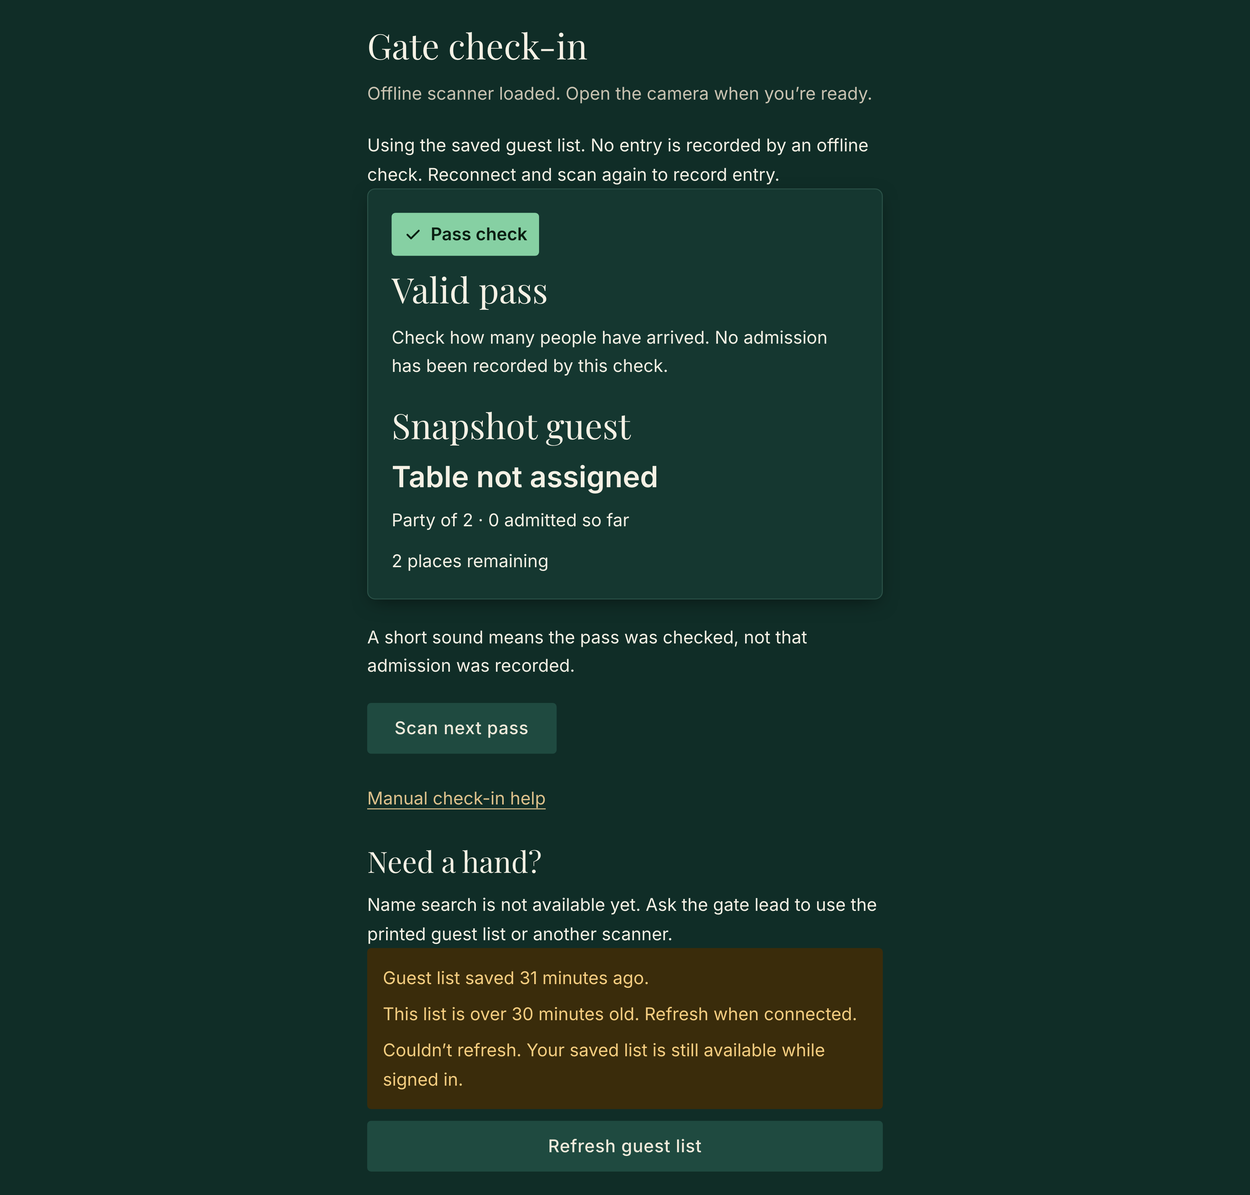
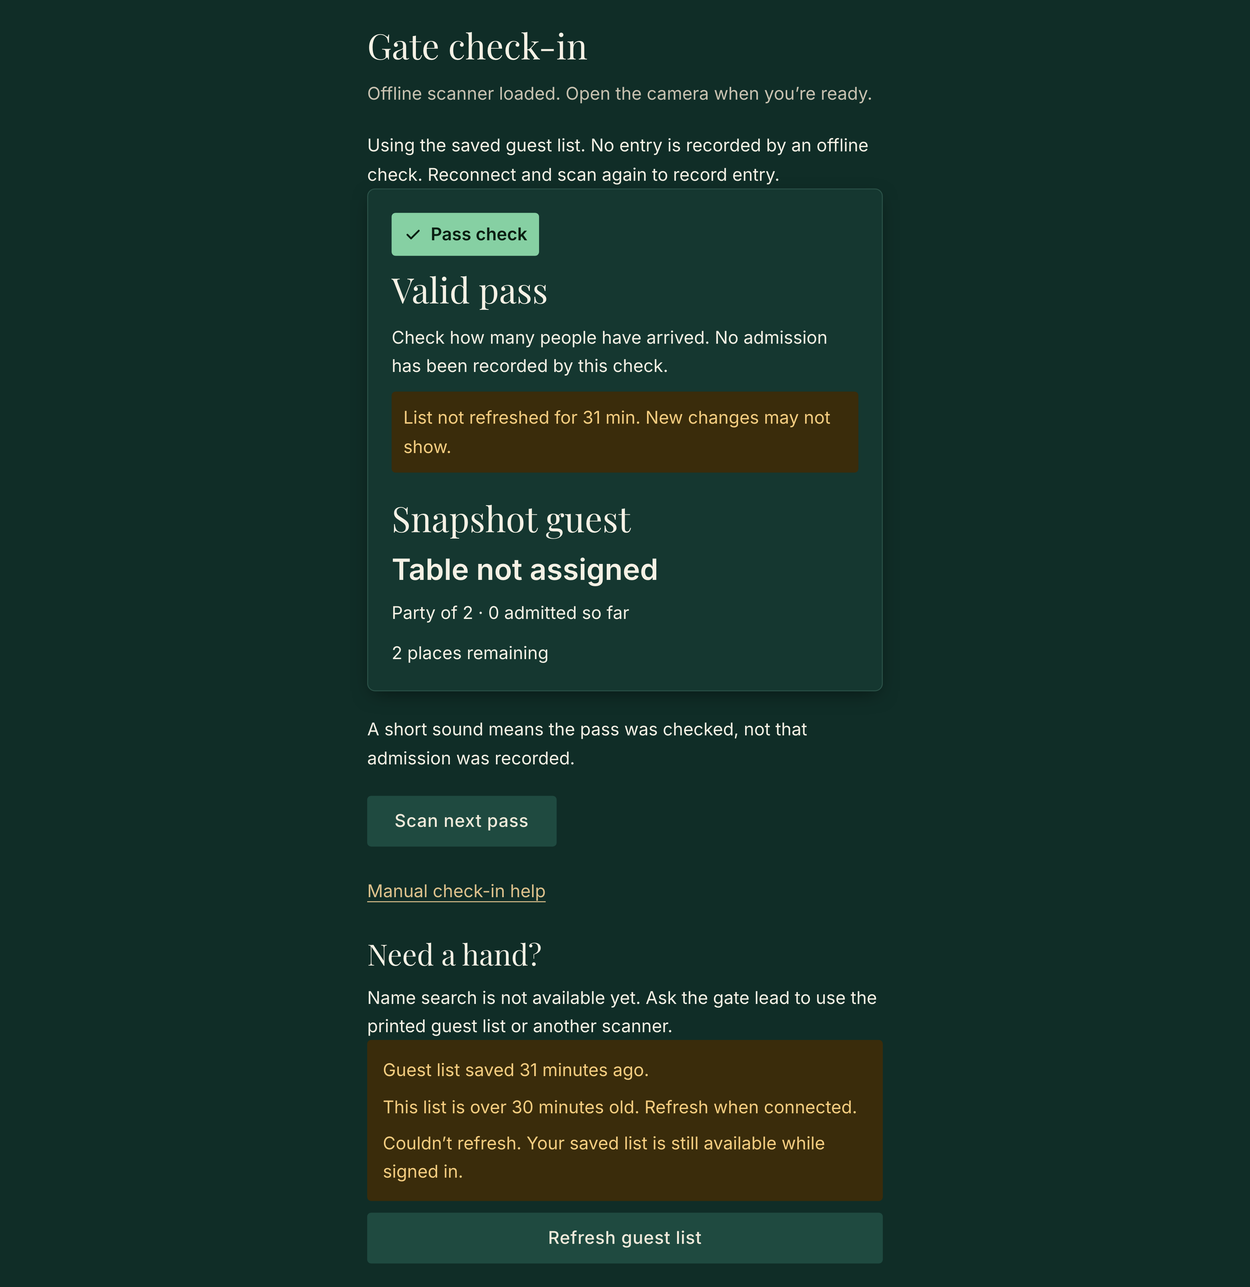
TICKET-065: verify stale results and signed offline worker decoding

Changed region(s): [[0.2812, 0.0311, 0.7188, 0.9648]]

diff --git a/scripts/browser-tests/scanner-shell-worker.spec.ts b/scripts/browser-tests/scanner-shell-worker.spec.ts
@@ -1,4 +1,5 @@
 import { createServer, type Server } from "node:http";
+import { generateKeyPairSync, randomUUID, sign } from "node:crypto";
 import { readFile, mkdtemp, rm } from "node:fs/promises";
 import { tmpdir } from "node:os";
 import { resolve, join } from "node:path";
@@ -11,6 +12,7 @@ import { generateScannerAssets, type ScannerAssetManifest } from "../scanner-ass
 import type { ScannerShellGrant } from "../../src/modules/checkin/browser/scanner-shell-store";
 import { themeToCssText } from "../../src/modules/theming/lib/css-vars";
 import { themeSchema } from "../../src/modules/theming/lib/schema";
+import { encodeGatePassPayload } from "../../src/modules/checkin/lib/gate-token";
 let themeCss: string;
 
 declare global {
@@ -29,6 +31,8 @@ let worker: string;
 let denied = false;
 let expiresAt = 0;
 const session = "a".repeat(64);
+const snapshotInvitation = randomUUID();
+const snapshotKeys = generateKeyPairSync("ed25519");
 function grant(): ScannerShellGrant {
   const html = `<!doctype html><html lang="en"><head><meta charset="utf-8"><meta name="viewport" content="width=device-width"><title>Gate scanner</title><link rel="stylesheet" href="${manifest.stylesheet}"><style>${themeCss}</style></head><body><div id="scanner-shell" data-expires-at="${expiresAt}" data-session="${session}" data-build="${manifest.build}"></div><script defer src="${manifest.script}"></script></body></html>`;
   return {
@@ -97,6 +101,39 @@ test.beforeAll(async () => {
         response.setHeader("Content-Type", "application/json");
         response.setHeader("X-Wedding-Scanner-Shell", "1");
         response.end(JSON.stringify(grant()));
+      } else if (path === "/api/checkin/guest-snapshot") {
+        response.setHeader("Content-Type", "application/json");
+        response.setHeader("X-Wedding-Guest-Snapshot", "1");
+        response.end(
+          JSON.stringify({
+            version: 1,
+            session,
+            generatedAt: Date.now(),
+            expiresAt,
+            keys: [
+              {
+                kid: "shell-fixture",
+                alg: "Ed25519",
+                spki: snapshotKeys.publicKey
+                  .export({ type: "spki", format: "der" })
+                  .toString("base64url"),
+              },
+            ],
+            invitations: [
+              {
+                invitationId: snapshotInvitation,
+                tokenVersion: 1,
+                status: "rsvp_yes",
+                attending: true,
+                partySize: 2,
+                admittedSoFar: 0,
+                name: "Synthetic offline household",
+                names: ["Synthetic offline guest"],
+                tableNumber: 9,
+              },
+            ],
+          }),
+        );
       } else if (manifest.assets.includes(path)) {
         response.setHeader(
           "Content-Type",
@@ -146,7 +183,9 @@ async function message(page: Page, type: string) {
           resolve(event.data);
         };
         if (!navigator.serviceWorker.controller) throw new Error("uncontrolled fixture");
-        navigator.serviceWorker.controller.postMessage({ type }, [channel.port2]);
+        navigator.serviceWorker.controller.postMessage({ type, session: "a".repeat(64) }, [
+          channel.port2,
+        ]);
       }),
     type,
   );
@@ -168,10 +207,19 @@ test("actual worker restores the complete scanner bundle offline and decodes QR 
 }) => {
   expiresAt = Date.now() + 12_000;
   await prepare(page);
+  expect(await message(page, "REFRESH_GUEST_SNAPSHOT")).toEqual({ state: "ready" });
   await context.setOffline(true);
   await page.reload();
   await expect(page.getByRole("button", { name: "Open camera" })).toBeVisible();
-  const qr = await QRCode.toDataURL("synthetic-offline-scanner-qr", { width: 512, margin: 4 });
+  const body = encodeGatePassPayload({
+    v: 1,
+    kid: "shell-fixture",
+    inv: snapshotInvitation,
+    ver: 1,
+    iat: 0,
+  });
+  const signed = `${body}.${sign(null, Buffer.from(body), snapshotKeys.privateKey).toString("base64url")}`;
+  const qr = await QRCode.toDataURL(`${origin}/p/${signed}`, { width: 512, margin: 4 });
   await page.evaluate(async (src) => {
     Object.defineProperty(window, "BarcodeDetector", { configurable: true, value: undefined });
     const canvas = document.createElement("canvas");
@@ -213,11 +261,15 @@ test("actual worker restores the complete scanner bundle offline and decodes QR 
     });
   }, qr);
   await page.getByRole("button", { name: "Open camera" }).click();
-  await expect(page.getByText("Unable to check this pass", { exact: true })).toBeVisible();
-  expect(await page.evaluate(() => window.scannerFixtureDecoded)).toEqual([
-    "synthetic-offline-scanner-qr",
-  ]);
-  await expect(page.getByText("Valid pass", { exact: true })).toHaveCount(0);
+  await expect(page.getByRole("heading", { name: "Valid pass", exact: true })).toBeVisible();
+  await expect(page.getByText("Synthetic offline household", { exact: true })).toBeVisible();
+  await expect(page.getByText("Party of 2 · 0 admitted so far", { exact: true })).toBeVisible();
+  await expect(page.getByText("Table 9", { exact: true })).toBeVisible();
+  await expect(page.getByRole("spinbutton")).toHaveCount(0);
+  await expect(page.getByText(/No entry is recorded by an offline check/)).toBeVisible();
+  // The signature/household proves the actual QR pixels reached local resolution.
+  // Offline checks must not route the QR to a live admission/read endpoint.
+  expect(await page.evaluate(() => window.scannerFixtureDecoded)).toEqual([]);
   // TICKET-060 stops capture after a read. Restart on blank frames to prove that
   // session expiry, rather than a completed read, shuts down an active camera.
   await page.evaluate(() => {

diff --git a/src/modules/checkin/components/admission-result.tsx b/src/modules/checkin/components/admission-result.tsx
@@ -62,6 +62,7 @@ export function AdmissionResult({
   onBusyChange,
   onComplete,
   allowAdmission = true,
+  readOnlyNotice,
 }: {
   result: ScanReadResult;
   qr: string | null;
@@ -69,6 +70,7 @@ export function AdmissionResult({
   onBusyChange: (busy: boolean) => void;
   onComplete?: () => void;
   allowAdmission?: boolean;
+  readOnlyNotice?: string;
 }) {
   const remaining =
     result.state === "valid" ? result.guest.partySize - result.guest.admittedSoFar : 0;
@@ -206,7 +208,11 @@ export function AdmissionResult({
   }
   if (result.state !== "valid" || !qr || (!allowAdmission && !response && !pending))
     return (
-      <ScanResultPanel state={result.state} guest={"guest" in result ? result.guest : undefined} />
+      <ScanResultPanel
+        state={result.state}
+        guest={"guest" in result ? result.guest : undefined}
+        notice={readOnlyNotice}
+      />
     );
   return (
     <Card>

diff --git a/src/modules/checkin/components/scan-result-panel.tsx b/src/modules/checkin/components/scan-result-panel.tsx
@@ -10,9 +10,11 @@ import {
 export function ScanResultPanel({
   state,
   guest,
+  notice,
 }: {
   state: ScanReadState;
   guest?: ScanGuestDisplay;
+  notice?: string;
 }) {
   const result = scanResultPresentation(state);
   const visibleGuest = state === "valid" || state === "already_used" ? guest : undefined;
@@ -25,6 +27,11 @@ export function ScanResultPanel({
           </StatusBadge>
           <h2 className="font-display text-4xl leading-tight wrap-anywhere">{result.title}</h2>
           <p>{result.description}</p>
+          {notice && (
+            <p className="rounded-md bg-warning-subtle p-3 text-warning-subtle-foreground">
+              {notice}
+            </p>
+          )}
         </div>
         {visibleGuest && (
           <div className="flex flex-col gap-3">

diff --git a/src/modules/checkin/components/scanner.tsx b/src/modules/checkin/components/scanner.tsx
@@ -36,11 +36,13 @@ export function Scanner({
   submitAdmission,
   allowAdmission = true,
   onAdmissionRecorded,
+  readOnlyNotice,
 }: {
   resolveRead?: ScanResolver;
   submitAdmission?: AdmissionSubmitter;
   allowAdmission?: boolean;
   onAdmissionRecorded?: () => void;
+  readOnlyNotice?: string;
 }) {
   const video = useRef<HTMLVideoElement>(null);
   const resultRegion = useRef<HTMLDivElement>(null);
@@ -283,6 +285,7 @@ export function Scanner({
             qr={checkedQr}
             submit={submitAdmission}
             allowAdmission={allowAdmission}
+            readOnlyNotice={readOnlyNotice}
             onBusyChange={setAdmissionBusy}
             onComplete={() => {
               setAdmissionCompleted(true);

diff --git a/src/modules/checkin/__tests__/admission-result.test.tsx b/src/modules/checkin/__tests__/admission-result.test.tsx
@@ -15,9 +15,13 @@ it("keeps cached valid checks read-only without an admission form or receipt", (
       submit={submit}
       onBusyChange={() => {}}
       allowAdmission={false}
+      readOnlyNotice="List not refreshed for 31 min. New changes may not show."
     />,
   );
   expect(screen.getByRole("heading", { name: "Valid pass" })).toBeVisible();
+  expect(
+    screen.getByText("List not refreshed for 31 min. New changes may not show."),
+  ).toBeVisible();
   expect(screen.queryByLabelText("How many are here?")).toBeNull();
   expect(screen.queryByRole("button", { name: /Admit/ })).toBeNull();
   expect(screen.getByText(/No admission has been recorded by this check/)).toBeVisible();

diff --git a/src/modules/checkin/components/guest-snapshot-scanner.tsx b/src/modules/checkin/components/guest-snapshot-scanner.tsx
@@ -86,6 +86,9 @@ export function GuestSnapshotScanner({
         {null}
       </ScannerSession>
     );
+  const age = freshness.summary
+    ? Math.max(0, Math.floor((freshness.now - freshness.summary.generatedAt) / 60_000))
+    : 0;
   return (
     <>
       {cached && (
@@ -98,6 +101,11 @@ export function GuestSnapshotScanner({
         key={session}
         resolveRead={resolveRead}
         allowAdmission={!cached}
+        readOnlyNotice={
+          cached && age >= 30
+            ? `List not refreshed for ${age} min. New changes may not show.`
+            : undefined
+        }
         onAdmissionRecorded={() => {
           void changed();
         }}

diff --git a/e2e/guest-snapshot.spec.ts b/e2e/guest-snapshot.spec.ts
@@ -138,6 +138,9 @@ test("authenticated private snapshot supports offline reads and erases on sign-o
       page.getByText("This list is over 30 minutes old. Refresh when connected."),
     ).toBeVisible();
     await expect(page.getByRole("heading", { name: "Valid pass", exact: true })).toBeVisible();
+    await expect(
+      page.getByText("List not refreshed for 31 min. New changes may not show."),
+    ).toBeVisible();
     await capture("stale");
     await page.clock.setFixedTime(new Date());
     const device = randomUUID();

diff --git a/docs/pwa.md b/docs/pwa.md
@@ -23,7 +23,7 @@ TICKET-104 generates themed192/512 any/maskable PNGs, an180px Apple touch icon a
 - **Offline fallback:** a same-origin page navigation goes to the network as normal. Only when the network fails does the worker answer with the precached offline page, at the URL the guest tried, with a "Try again" button that reloads it. The visited invitation document is never stored; the explicit minimal own-pass and scanner exceptions are described below. `fetch()` calls are not navigations, so private routes such as `/admin` still fail offline.
 - No automatic `skipWaiting`: a new version waits until tabs using the old one close. TICKET-111 adds the update prompt.
 - Generic public-asset caching is best-effort: a hit is served from cache, otherwise the network response is returned immediately and a copy is stored in the background (`event.waitUntil`). Only complete `200` same-origin responses are stored (never `206` partial range responses), and any Cache Storage error (quota, private mode, eviction) falls back to the network instead of failing the request.
-- Caches are named `wedding-<kind>-v<SW_CACHE_VERSION>`. On activate, only obsolete public `wedding-` caches are deleted; the current explicitly authorized own-pass and scanner-build caches are retained. Scanner activation invalidates an incompatible saved scanner grant before deleting its old assets; guest snapshots and unsynced queues are never touched. Bump `SW_CACHE_VERSION` when cached content or layout changes.
+- Caches are named `wedding-<kind>-v<SW_CACHE_VERSION>`. On activate, only obsolete public `wedding-` caches are deleted; the current explicitly authorized own-pass and scanner-build caches are retained. Scanner activation invalidates an incompatible saved scanner grant before deleting its old assets; private guest snapshots are erased with incompatible scanner authority, while unsynced queues are never touched. Bump `SW_CACHE_VERSION` when cached content or layout changes.
 
 ## Strategy table
 
@@ -46,11 +46,11 @@ The generic "Network-only" policy leaves requests to the browser without storing
 
 ## Planned extensions (not implemented here)
 
-| Content                                    | Ticket             |
-| ------------------------------------------ | ------------------ |
-| Authorized guest snapshots and scan outbox | TICKET-065/066/180 |
-| Update-available prompt                    | TICKET-111         |
-| Expiry, logout cleanup, storage eviction   | TICKET-184         |
+| Content                                  | Ticket         |
+| ---------------------------------------- | -------------- |
+| Admission outbox and unsynced retention  | TICKET-066/180 |
+| Update-available prompt                  | TICKET-111     |
+| Expiry, logout cleanup, storage eviction | TICKET-184     |
 
 ## Authorized own-pass copies (TICKET-107)
 
@@ -86,9 +86,8 @@ assets live in `wedding-scanner-assets-v1-<build>`; the private grant lives sepa
 in IndexedDB `wedding-scanner-shell-v1`. Preparation validates every asset and reads
 all of them back before publishing readiness. A missing asset, invalid/expired grant
 or unavailable storage gives the generic offline page. RSC/prefetch and check-in API
-requests do not receive private HTML. The default read-only guest check still needs
-a network connection; this shell does not implement TICKET-065's guest snapshots or
-TICKET-066/180's admission outbox.
+requests do not receive private HTML. TICKET-065 adds the separately authorized private guest snapshot described below.
+The shell does not implement TICKET-066/180's admission outbox.
 
 The expiry is the earliest signed-cookie, current event and PIN deadline. Initial
 camera mounting reconciles durable session/build identity and clamps to the earlier
@@ -117,3 +116,15 @@ browser restarts with persistent profiles, injected storage failure/recovery, an
 authenticated Next production journey. Physical installed iOS/Android scanner operation
 remains mandatory in TICKET-114; this does not certify remote revocation while a device
 is offline or physical camera conditions. See `docs/reviews/TICKET-108/` for evidence.
+
+## Private scanner guest snapshots (TICKET-065)
+
+After sign-in, the worker fetches `/api/checkin/guest-snapshot` with the current staff cookie. The endpoint validates gate access before and after a repeatable-read projection and returns a bounded, no-store document. Only names, invitation ID/version/status, RSVP allowance, admitted count, table and public verification keys are included. Contacts, dietary/RSVP notes, credentials and signed bearer links are excluded.
+
+The private `wedding-scanner-guests-v1` IndexedDB store is separate from public assets and admission queues. Every read/refresh/erase shares the scanner publication Web Lock and reconciles current shell identity, readiness and deadline. Generation checks defeat late writes. Sign-out, expiry, session replacement and newly shortened authority erase the private copy. Failed erasure locks offline access and removes scanner readiness across builds; all parallel erasures settle before the lock is released. Older workers' generic removal replies require locked direct cleanup.
+
+The list refreshes every five minutes, on resume/reconnect and after known authoritative guest changes or admission receipts. Known changes invalidate only the matching private copy before refresh; a failed refresh cannot return a copy already contradicted by the server. Unknown remote changes remain unknown offline. At thirty minutes the UI shows an amber age warning and a stale-result notice; scanning continues until the trusted session deadline. There is no invented maximum snapshot age.
+
+Offline signed QR checks show valid, used, revoked, replaced or unknown results without recording entry. Reconnection never turns an already displayed cached result into an admission form. Existing uncertain live admission retries preserve their exact intent. A new online scan is required to authorize a new admission; TICKET-066 owns offline queued admission.
+
+Evidence: `docs/reviews/TICKET-065/`, the actual authenticated snapshot browser runner and the generated-worker Chromium/WebKit suite. Automated tests include full browser restart after storage failure and physical private-data erasure; physical installed-device certification remains in TICKET-114/TICKET-163/TICKET-201.

diff --git a/docs/plans/TICKET-065-pr.md b/docs/plans/TICKET-065-pr.md
@@ -23,13 +23,15 @@ The policy follows TICKET-169: five-minute refresh, immediate refresh after know
 # Verification
 
 - Production build passed.
-- Authenticated snapshot journey: **2/2 passed**, mobile and desktop, 41.4 seconds. All six states were checked in four themes at 375/768/1280; axe reported zero violations, controls met 44px and pages had no horizontal overflow.
+- Authenticated snapshot journey: **2/2 passed**, mobile and desktop, 42.2 seconds. All six states were checked in four themes at 375/768/1280; axe reported zero violations, controls met 44px and pages had no horizontal overflow.
 - Existing online admission integration: **2/2 passed**, 31.3 seconds, preserving actual partial admission, immutable uncertain retry, duplicate receipt and concurrent refusal assertions.
 - Existing authenticated offline shell integration: **2/2 passed**, 37.4 seconds, including exact zero initial CLS, keyboard refresh/sign-out and offline denial after logout.
 - Exact generated-worker/real IndexedDB suite: **24/24 passed**, Chromium and WebKit, 15.0 seconds. Includes old-worker acknowledgement fallback, concurrent refresh/logout, shortened deadlines, missing authority cleanup, failed private erasure and full browser restart offline.
 - Actual isolated PostgreSQL projection: **1/1 passed**. Private fields excluded; large named households retain all names with a bounded display label; revoked households preserve historical admitted counts. The transaction rolls back its fixtures.
 - Focused admission/worker/wrapper tests: **38 passed**, including uncertain intent preservation when switching to read-only mode. Hook tests include the reproduced initial preparation-notification race. Pure parser/response/resolver targeted coverage reached 100% for the three new pure modules.
-- Final quick gate passed lint, types and 114 related tests (one conditional database skip, separately exercised above). Full coverage and exact-head CI remain pending.
+- Full combined unit/coverage gate: **1,873 passed / 194 conditional skips**, 108.25 seconds; critical lines98.59%, branches98.89%, every per-file threshold passed. Final combined quick passed lint, types and28 related tests; the earlier broader quick passed114. Exact-head CI remains pending.
+
+The existing shell/decoder fixture also passes **46/46** Chromium/WebKit cases (43.1 seconds). The first checkpoint CI exposed its obsolete assertion that offline QR checks make a live POST. The fixture now uses an actual signed QR and private snapshot and proves exact household/table/party, no admission form and zero POST, retaining all expiry/track/restart assertions.
 
 Initial production evidence failed because a shell-ready notification arrived during an unavailable initial refresh and was coalesced away. A deferred regression reproduced it; one bounded follow-up refresh fixes the race. Review also reproduced early-rejection erasure races and a failed known-change erase path. The final tests retain those failure cases without relaxing deadlines or assertions.
 
@@ -39,7 +41,7 @@ Initial production evidence failed because a shell-ready notification arrived du
 
 # UI checklist
 
-PASS: staff screenshot/axe requirements, token-only styling, 18px staff body/control text, clear status icons/copy, all-theme contrast, 44px targets, overflow checks, reduced motion, keyboard sign-out and existing keyboard refresh, zero initial CLS, shared Button/result components. Existing camera feedback remains unchanged and online admission integration passes. No new photographic asset, QR output or reusable general component was added; those checklist items are N/A. Guest-page Lighthouse/WhatsApp requirements are N/A to this staff-only change. Physical camera/device/offline release certification remains unverified in TICKET-114/TICKET-163/TICKET-201; no automated result is represented as physical-device QA. Full CI verification remains pending.
+PASS: staff screenshot/axe requirements, token-only styling, 18px staff body/control text, clear status icons/copy, all-theme contrast, 44px targets, overflow checks, reduced motion, keyboard sign-out and existing keyboard refresh, zero initial CLS, shared Button/result components. Existing camera feedback remains unchanged and online admission integration passes. No new photographic asset, QR output or reusable general component was added; those checklist items are N/A. Guest-page Lighthouse/WhatsApp requirements are N/A to this staff-only change. Physical camera/device/offline release certification remains unverified in TICKET-114/TICKET-163/TICKET-201; no automated result is represented as physical-device QA. Full CI verification remains pending. The updated stale notice is also rendered inside the pass result as ADR0020 requires.
 
 # Risks and rollout
 
@@ -49,4 +51,4 @@ Rollback by reverting this ticket's application/worker changes. Do not erase uns
 
 # Harness changes, if any
 
-Three additive CI steps reuse existing disposable PostgreSQL and installed Chromium/WebKit jobs. Existing gates and timeouts are unchanged. See `docs/reviews/TICKET-065/ci-proposal.md`. The verified source base is develop `6abf4c0ea12e361a82b0475b29ec6df2a613c238`; later integration will be reported explicitly.
+Three additive CI steps reuse existing disposable PostgreSQL and installed Chromium/WebKit jobs. Existing gates and timeouts are unchanged. See `docs/reviews/TICKET-065/ci-proposal.md`. The final verified source base is develop `5cedfab9` (dashboard097 and ticket-recovery224), merged in `9a6a41de`. Independent source and all144-frame visual review found no blocker; the24 updated stale frames were reviewed again.

diff --git a/docs/handoffs/TICKET-065.md b/docs/handoffs/TICKET-065.md
@@ -11,3 +11,5 @@ Only this worktree's native PostgreSQL26721 was used. It is stopped with data re
 Next: finish quick/full-unit coverage, review final source/CI delta, integrate current develop (coordinate062 Scanner reportedAt payload and preserve SCANNER_REVIEW_DIR paths), run necessary combined evidence, publish all work and update PR147. Only then `t:pr`, monitor exact-head CI, coordinate verified merge. No acceptance/status should claim CI success before it is observed.
 
 Lessons: preparation notifications during a pending first refresh need one bounded follow-up; successful Promise.all rejection is not full settlement, so storage mutation lifetimes must remain within the origin lock; known authoritative guest changes must invalidate old private snapshots even when the refresh fails. Conditional invalidation must preserve a replacement session and any unsynced admission queues.
+
+Final combined checkpoint: develop5cedfab9 integrated as9a6a41de; full unit1873pass/194conditional skips,108.25s, critical lines98.59%/branches98.89% with every per-file gate passing. Actual snapshot browser2/2 refreshed144screenshots; only24stale frames changed and were re-reviewed. Existing worker suite46/46 now proves actual signed local resolution and zero live POST, correcting the sole observed checkpoint CI failure. Exact-head CI must still pass before merge. Own PG26721 stopped again, data retained.
